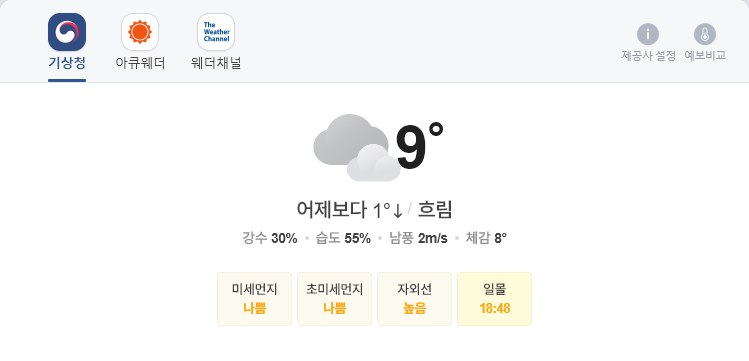
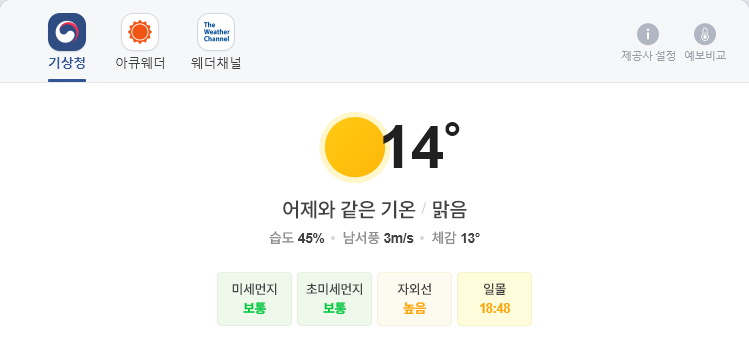
update result

diff --git a/README.md b/README.md
@@ -1,5 +1,5 @@
-##  2021-03-24 09:17:34   수요일 
-##### 날씨   -   어제보다 1° 낮아요흐림  
+##  2021-03-24 12:07:48   수요일 
+##### 날씨   -   어제와 같은 기온맑음  
 <center><img src="../img/naver_weather_week.png"></center>
 ----
 ----
@@ -16,7 +16,7 @@
 <tr align = "right" > <td>DOW</td><td>32,423.15</td><td>-308.05</td><td><font size="3" color="blue" >-0.94%</font></td><td><font size="3" color="black">0</font></td><td><font size="3" color="black">0</font></td><td>0</td>  </tr>
 <tr align = "right" > <td>NASDAQ</td><td>13,227.7</td><td>-149.84</td><td><font size="3" color="blue" >-1.12%</font></td><td><font size="3" color="black">0</font></td><td><font size="3" color="black">0</font></td><td>0</td>  </tr>
 <tr align = "right" > <td>S&P</td><td>3,910.52</td><td>-30.07</td><td><font size="3" color="blue" >-0.76%</font></td><td><font size="3" color="black">0</font></td><td><font size="3" color="black">0</font></td><td>0</td>  </tr>
-<tr align = "right" > <td>SHANHAI</td><td>3,411.51</td><td>-31.93</td><td><font size="3" color="blue" >-0.93%</font></td><td><font size="3" color="black">0</font></td><td><font size="3" color="black">0</font></td><td>0</td>  </tr>
+<tr align = "right" > <td>SHANHAI</td><td>3,387.53</td><td>-23.98</td><td><font size="3" color="blue" >-0.7%</font></td><td><font size="3" color="black">0</font></td><td><font size="3" color="black">0</font></td><td>0</td>  </tr>
 <tr align = "right" > <td>INDIA</td><td>50,051.44</td><td>280.15</td><td><font size="3" color="red" >0.56%</font></td><td><font size="3" color="black">0</font></td><td><font size="3" color="black">0</font></td><td>0</td>  </tr>
 </table>
 ----
@@ -31,26 +31,26 @@
 ##### 주가
 <table border="1" bordercolor="blue" align = "center" >
 <tr align = "right" > <td>Item</td><td>Price</td><td>Diff</td><td>Rate</td><td>Purchased</td><td>Sell</td><td>Buy</td>  </tr>
-<tr align = "right" > <td>한국 전력</td><td>22,750</td><td>0</td><td><font size="3" color="black">0.0%</font></td><td>25,720</td><td><font size="3" color="black">27,700</font></td><td><font size="3" color="black">20,700</font></td>  </tr>
+<tr align = "right" > <td>한국 전력</td><td>22,800</td><td>50</td><td><font size="3" color="red">0.22%</font></td><td>25,720</td><td><font size="3" color="black">27,700</font></td><td><font size="3" color="black">20,700</font></td>  </tr>
 <tr align = "right" > <td>삼성엔지니어.</td><td>13,300</td><td>-200</td><td><font size="3" color="blue">-1.48%</font></td><td>18,935</td><td><font size="3" color="black">20,000</font></td><td><font size="3" color="black">8,000</font></td>  </tr>
-<tr align = "right" > <td>CJ CGV</td><td>27,700</td><td>-800</td><td><font size="3" color="blue">-2.81%</font></td><td>34,895</td><td><font size="3" color="black">36,000</font></td><td><font size="3" color="black">0</font></td>  </tr>
-<tr align = "right" > <td>아모레퍼시픽</td><td>245,500</td><td>-6,000</td><td><font size="3" color="blue">-2.39%</font></td><td>235,350</td><td><font size="3" color="black">240,000</font></td><td><font size="3" color="black">130,000</font></td>  </tr>
-<tr align = "right" > <td>한화</td><td>28,750</td><td>-450</td><td><font size="3" color="blue">-1.54%</font></td><td>25,550</td><td><font size="3" color="black">26,250</font></td><td><font size="3" color="black">26,250</font></td>  </tr>
-<tr align = "right" > <td>NAVER</td><td>377,000</td><td>-9,000</td><td><font size="3" color="blue">-2.33%</font></td><td>147,200</td><td><font size="3" color="black">386,000</font></td><td><font size="3" color="black">286,000</font></td>  </tr>
-<tr align = "right" > <td>LG 화학우</td><td>363,500</td><td>5,000</td><td><font size="3" color="red">1.39%</font></td><td>202,490</td><td><font size="3" color="black">384,000</font></td><td><font size="3" color="orangered">384,000</font></td>  </tr>
-<tr align = "right" > <td>스튜디오드래.</td><td>93,200</td><td>-1,300</td><td><font size="3" color="blue">-1.38%</font></td><td>81,243</td><td><font size="3" color="black">85,200</font></td><td><font size="3" color="black">85,200</font></td>  </tr>
-<tr align = "right" > <td>QV미국IT</td><td>26,200</td><td>0</td><td><font size="3" color="black">0.0%</font></td><td>0</td><td><font size="3" color="black">30,000</font></td><td><font size="3" color="black">20,000</font></td>  </tr>
-<tr align = "right" > <td>삼성 전자우</td><td>72,800</td><td>-500</td><td><font size="3" color="blue">-0.68%</font></td><td>48,250</td><td><font size="3" color="black">56,000</font></td><td><font size="3" color="black">45,000</font></td>  </tr>
-<tr align = "right" > <td>LS</td><td>62,400</td><td>-900</td><td><font size="3" color="blue">-1.42%</font></td><td>71,900</td><td><font size="3" color="black">82,000</font></td><td><font size="3" color="black">60,000</font></td>  </tr>
-<tr align = "right" > <td>한화에어로스.</td><td>38,900</td><td>-350</td><td><font size="3" color="blue">-0.89%</font></td><td>25,700</td><td><font size="3" color="black">30,000</font></td><td><font size="3" color="black">24,000</font></td>  </tr>
+<tr align = "right" > <td>CJ CGV</td><td>27,900</td><td>-600</td><td><font size="3" color="blue">-2.11%</font></td><td>34,895</td><td><font size="3" color="black">36,000</font></td><td><font size="3" color="black">0</font></td>  </tr>
+<tr align = "right" > <td>아모레퍼시픽</td><td>248,500</td><td>-3,000</td><td><font size="3" color="blue">-1.19%</font></td><td>235,350</td><td><font size="3" color="black">240,000</font></td><td><font size="3" color="black">130,000</font></td>  </tr>
+<tr align = "right" > <td>한화</td><td>29,000</td><td>-200</td><td><font size="3" color="blue">-0.68%</font></td><td>25,550</td><td><font size="3" color="black">26,250</font></td><td><font size="3" color="black">26,250</font></td>  </tr>
+<tr align = "right" > <td>NAVER</td><td>379,500</td><td>-6,500</td><td><font size="3" color="blue">-1.68%</font></td><td>147,200</td><td><font size="3" color="black">386,000</font></td><td><font size="3" color="black">286,000</font></td>  </tr>
+<tr align = "right" > <td>LG 화학우</td><td>362,000</td><td>3,500</td><td><font size="3" color="red">0.98%</font></td><td>202,490</td><td><font size="3" color="black">384,000</font></td><td><font size="3" color="orangered">384,000</font></td>  </tr>
+<tr align = "right" > <td>스튜디오드래.</td><td>94,000</td><td>-500</td><td><font size="3" color="blue">-0.53%</font></td><td>81,243</td><td><font size="3" color="black">85,200</font></td><td><font size="3" color="black">85,200</font></td>  </tr>
+<tr align = "right" > <td>QV미국IT</td><td>26,270</td><td>70</td><td><font size="3" color="red">0.27%</font></td><td>0</td><td><font size="3" color="black">30,000</font></td><td><font size="3" color="black">20,000</font></td>  </tr>
+<tr align = "right" > <td>삼성 전자우</td><td>72,900</td><td>-400</td><td><font size="3" color="blue">-0.55%</font></td><td>48,250</td><td><font size="3" color="black">56,000</font></td><td><font size="3" color="black">45,000</font></td>  </tr>
+<tr align = "right" > <td>LS</td><td>63,100</td><td>-200</td><td><font size="3" color="blue">-0.32%</font></td><td>71,900</td><td><font size="3" color="black">82,000</font></td><td><font size="3" color="black">60,000</font></td>  </tr>
+<tr align = "right" > <td>한화에어로스.</td><td>38,750</td><td>-500</td><td><font size="3" color="blue">-1.27%</font></td><td>25,700</td><td><font size="3" color="black">30,000</font></td><td><font size="3" color="black">24,000</font></td>  </tr>
 <tr align = "right" > <td>카카오</td><td>486,500</td><td>-4,000</td><td><font size="3" color="blue">-0.82%</font></td><td>405,500</td><td><font size="3" color="black">440,000</font></td><td><font size="3" color="black">400,000</font></td>  </tr>
-<tr align = "right" > <td>호텔 신라</td><td>85,700</td><td>-2,100</td><td><font size="3" color="blue">-2.39%</font></td><td>72,800</td><td><font size="3" color="black">100,000</font></td><td><font size="3" color="black">70,000</font></td>  </tr>
-<tr align = "right" > <td>S-Oil</td><td>78,700</td><td>-1,500</td><td><font size="3" color="blue">-1.87%</font></td><td>62,842</td><td><font size="3" color="black">100,000</font></td><td><font size="3" color="black">50,000</font></td>  </tr>
+<tr align = "right" > <td>호텔 신라</td><td>85,800</td><td>-2,000</td><td><font size="3" color="blue">-2.28%</font></td><td>72,800</td><td><font size="3" color="black">100,000</font></td><td><font size="3" color="black">70,000</font></td>  </tr>
+<tr align = "right" > <td>S-Oil</td><td>78,500</td><td>-1,700</td><td><font size="3" color="blue">-2.12%</font></td><td>62,842</td><td><font size="3" color="black">100,000</font></td><td><font size="3" color="black">50,000</font></td>  </tr>
 <tr align = "right" > <td>LG전자</td><td>146,000</td><td>500</td><td><font size="3" color="red">0.34%</font></td><td>82,022</td><td><font size="3" color="black">100,000</font></td><td><font size="3" color="black">60,000</font></td>  </tr>
-<tr align = "right" > <td>KT&G</td><td>79,900</td><td>-400</td><td><font size="3" color="blue">-0.5%</font></td><td>80,400</td><td><font size="3" color="black">100,000</font></td><td><font size="3" color="black">70,000</font></td>  </tr>
-<tr align = "right" > <td>지역난방공사</td><td>37,550</td><td>-300</td><td><font size="3" color="blue">-0.79%</font></td><td>43,590</td><td><font size="3" color="black">60,000</font></td><td><font size="3" color="black">30,000</font></td>  </tr>
-<tr align = "right" > <td>KOEDX은행</td><td>6,965</td><td>-35</td><td><font size="3" color="blue">-0.5%</font></td><td>5,178</td><td><font size="3" color="black">6,225</font></td><td><font size="3" color="black">6,225</font></td>  </tr>
-<tr align = "right" > <td>글로벌럭셔리</td><td>16,425</td><td>-260</td><td><font size="3" color="blue">-1.56%</font></td><td>15,260</td><td><font size="3" color="black">20,000</font></td><td><font size="3" color="black">10,000</font></td>  </tr>
-<tr align = "right" > <td>한국금융지주</td><td>85,100</td><td>-1,400</td><td><font size="3" color="blue">-1.62%</font></td><td>0</td><td><font size="3" color="black">82,000</font></td><td><font size="3" color="black">60,000</font></td>  </tr>
+<tr align = "right" > <td>KT&G</td><td>80,000</td><td>-300</td><td><font size="3" color="blue">-0.37%</font></td><td>80,400</td><td><font size="3" color="black">100,000</font></td><td><font size="3" color="black">70,000</font></td>  </tr>
+<tr align = "right" > <td>지역난방공사</td><td>37,800</td><td>-50</td><td><font size="3" color="blue">-0.13%</font></td><td>43,590</td><td><font size="3" color="black">60,000</font></td><td><font size="3" color="black">30,000</font></td>  </tr>
+<tr align = "right" > <td>KOEDX은행</td><td>6,935</td><td>-65</td><td><font size="3" color="blue">-0.93%</font></td><td>5,178</td><td><font size="3" color="black">6,225</font></td><td><font size="3" color="black">6,225</font></td>  </tr>
+<tr align = "right" > <td>글로벌럭셔리</td><td>16,405</td><td>-280</td><td><font size="3" color="blue">-1.68%</font></td><td>15,260</td><td><font size="3" color="black">20,000</font></td><td><font size="3" color="black">10,000</font></td>  </tr>
+<tr align = "right" > <td>한국금융지주</td><td>85,000</td><td>-1,500</td><td><font size="3" color="blue">-1.73%</font></td><td>0</td><td><font size="3" color="black">82,000</font></td><td><font size="3" color="black">60,000</font></td>  </tr>
 </table>
 ----
